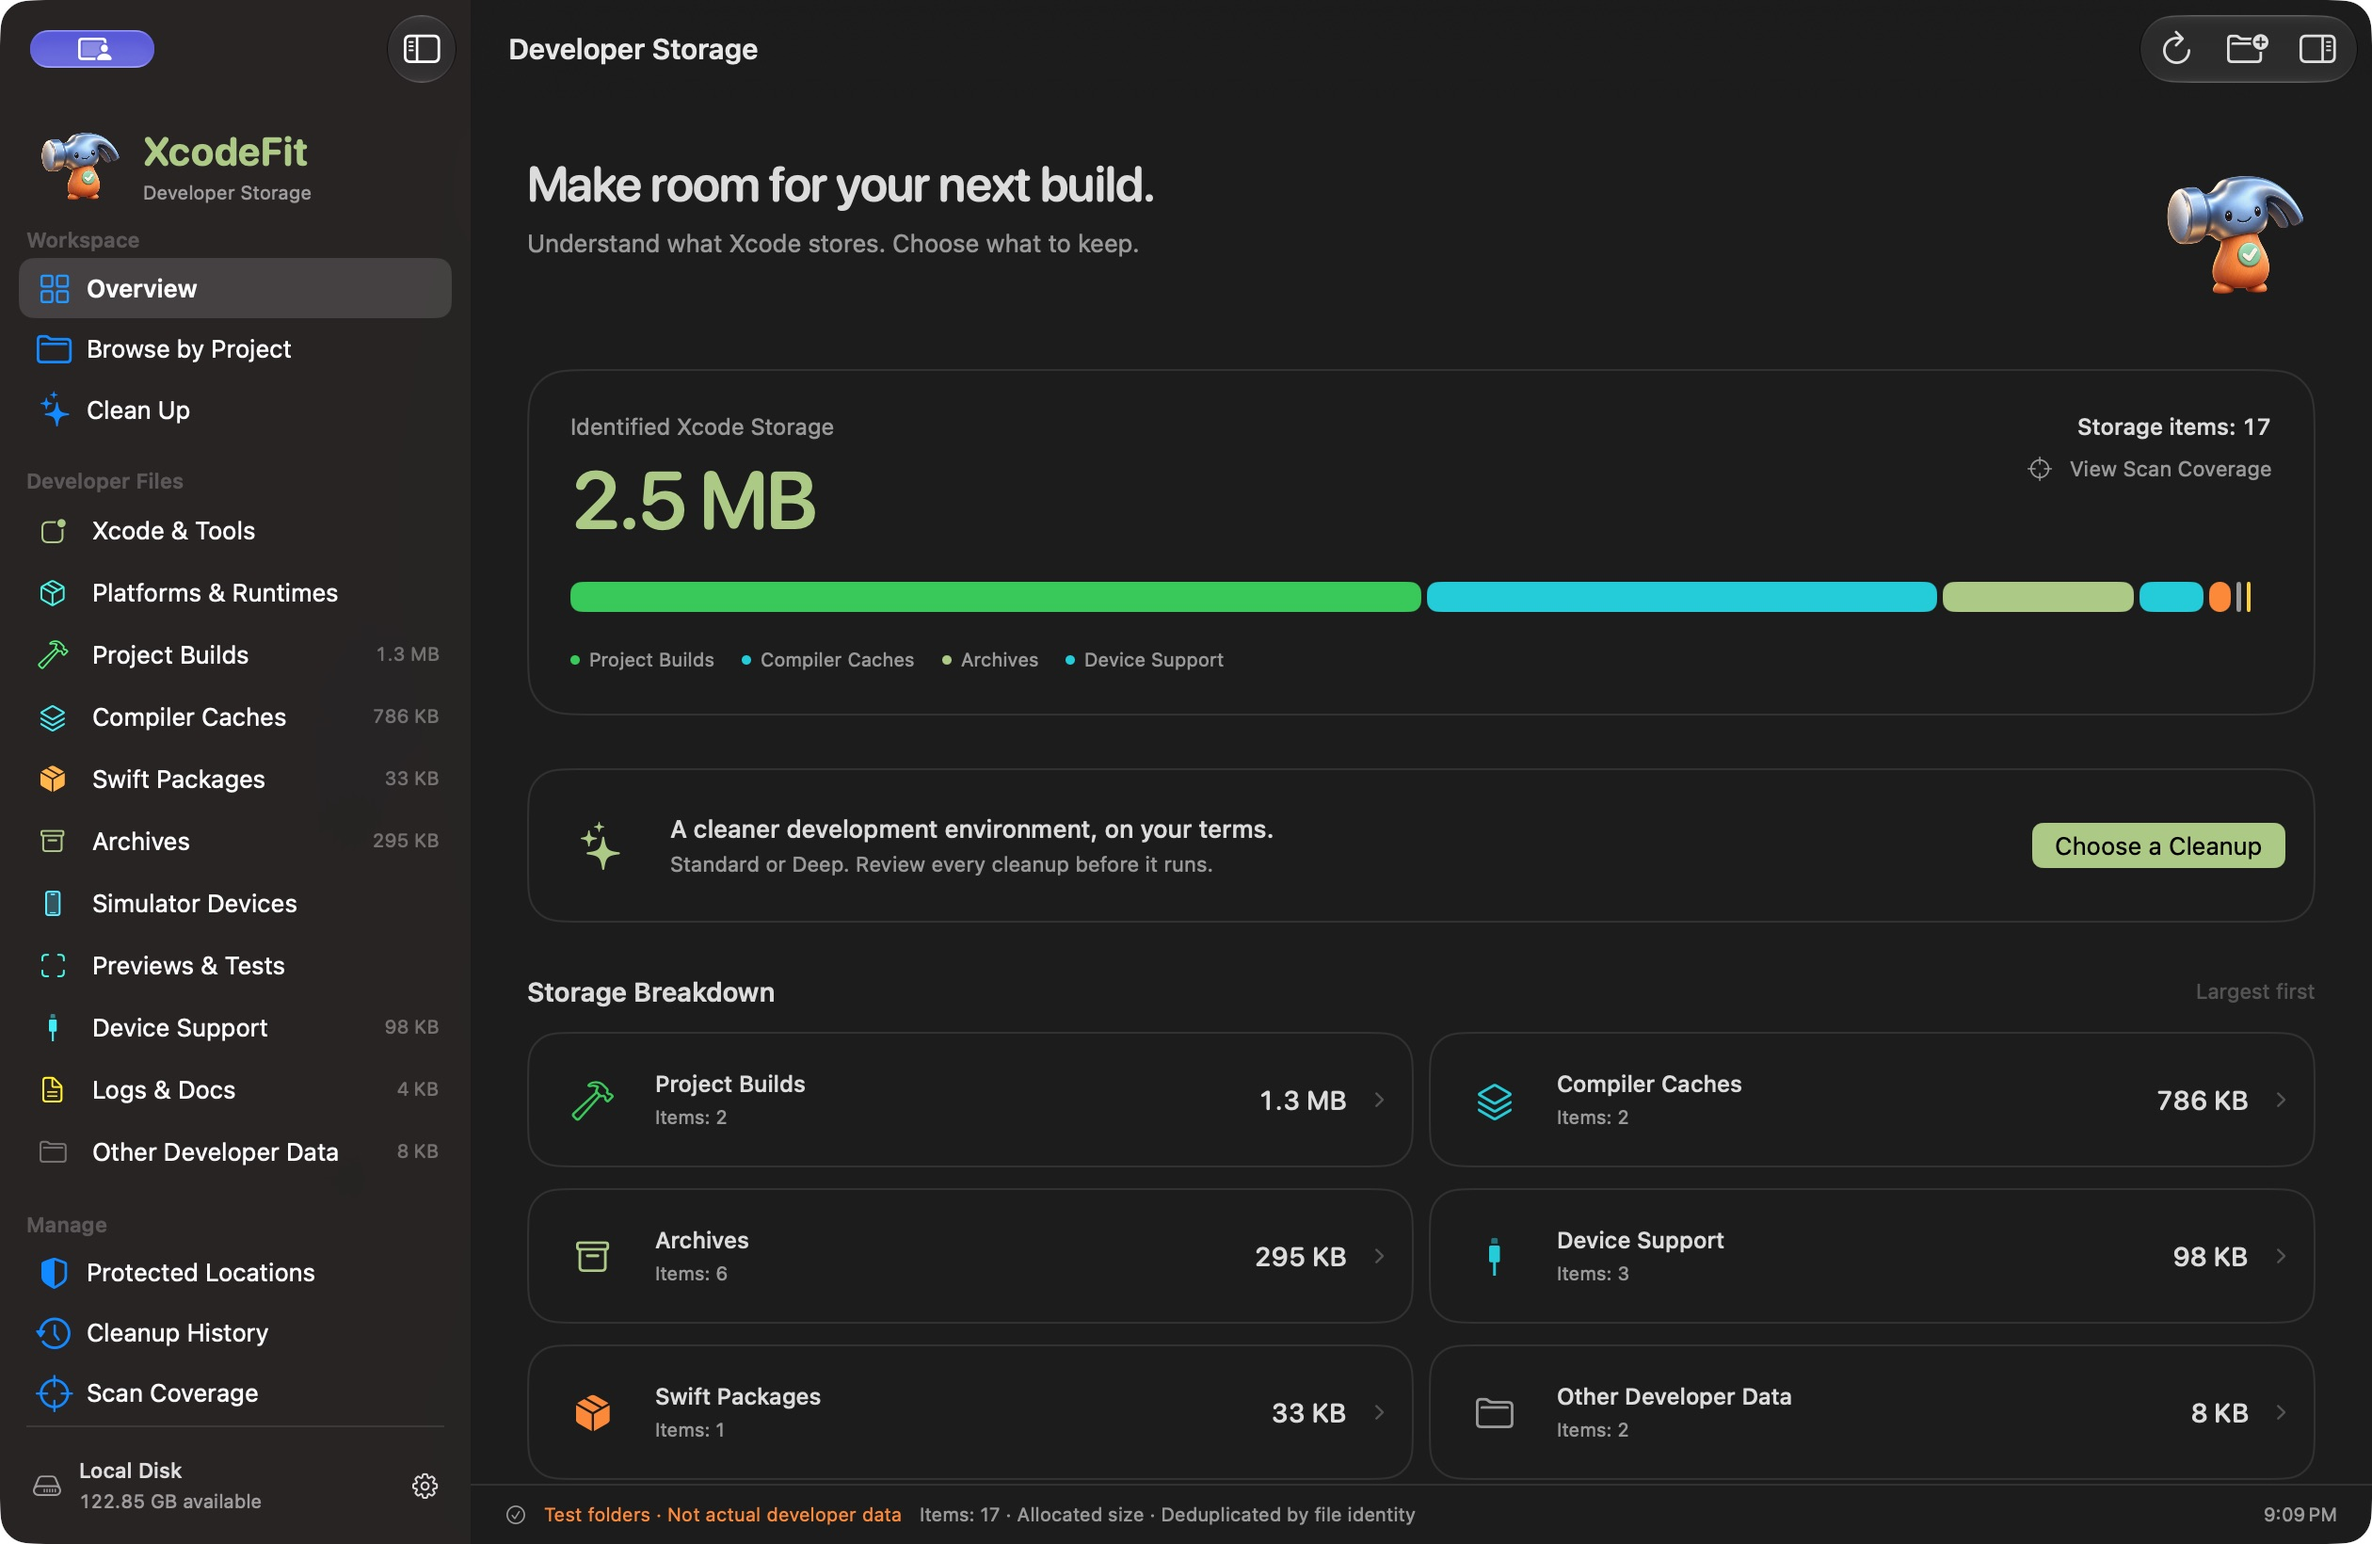
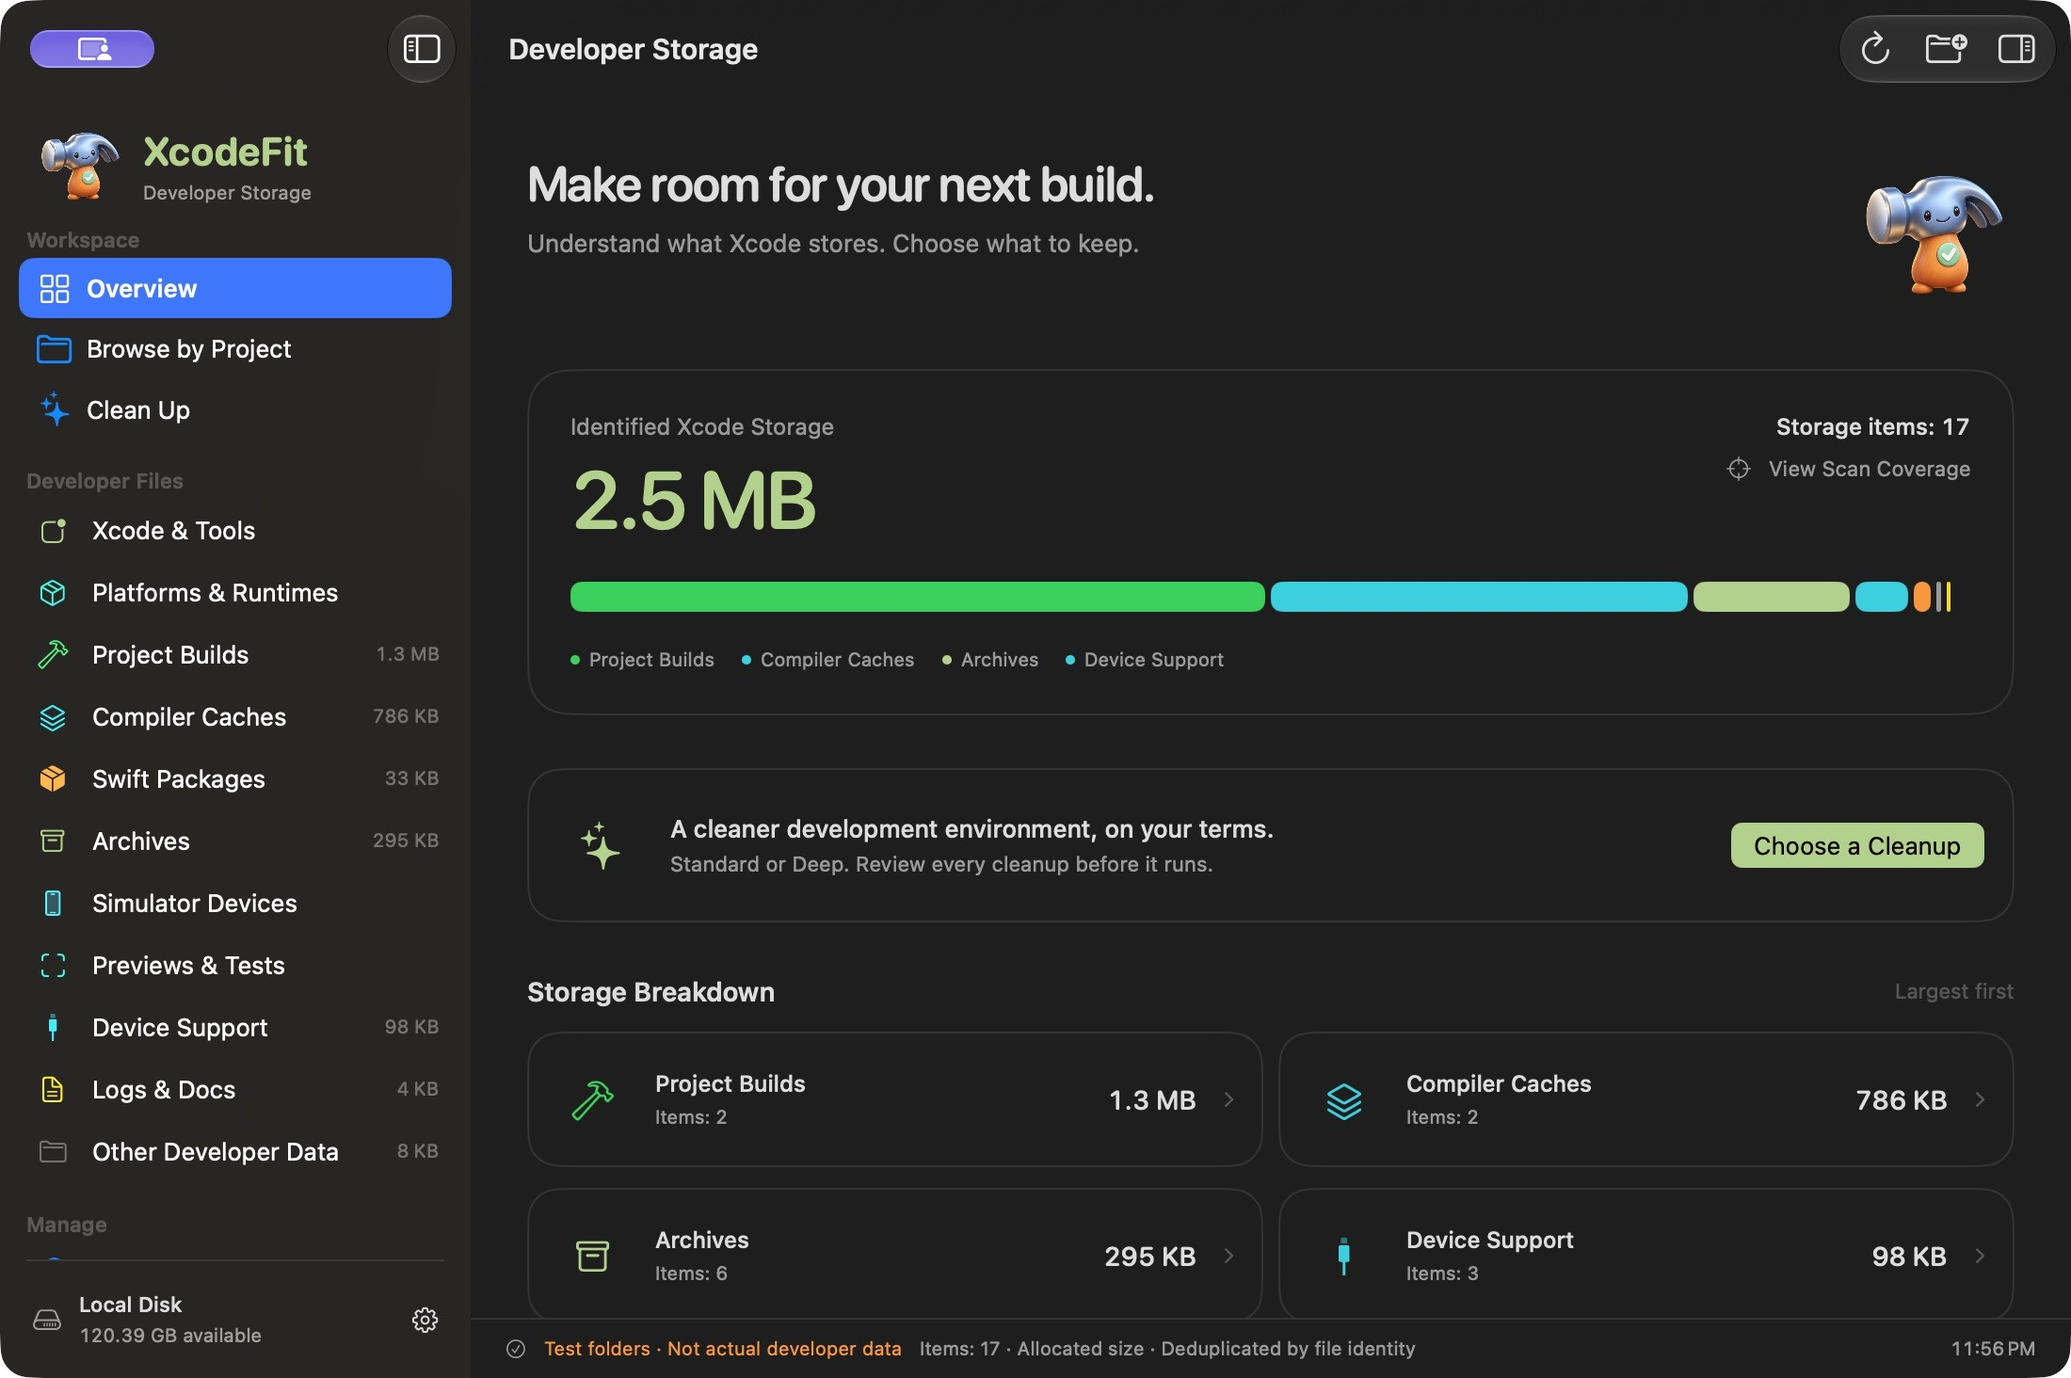
Refresh compact app screenshots and show scan status in docs

diff --git a/web/index.html b/web/index.html
@@ -9,7 +9,7 @@
   <meta name="description" content="Get your Xcode storage in shape. Find bulky builds, caches, simulators and archives, understand their purpose, and clean up with care. Free and open source for Mac.">
   <link rel="canonical" href="https://xnu.app/xcodefit/">
   <meta property="og:title" content="XcodeFit — A little fitter. A lighter Xcode."><meta property="og:description" content="A lighter, fitter home for Xcode. See what's taking space, understand what matters, and choose what to keep."><meta property="og:type" content="website"><meta property="og:url" content="https://xnu.app/xcodefit/"><meta property="og:image" content="https://xnu.app/xcodefit/assets/app-icon.png">
-  <link rel="icon" type="image/png" href="assets/app-icon.png"><link rel="stylesheet" href="styles.css?v=ee7f878723f6"><script src="app.js?v=5af89e132261" defer></script>
+  <link rel="icon" type="image/png" href="assets/app-icon.png"><link rel="stylesheet" href="styles.css?v=5912b9cc0882"><script src="app.js?v=a8f1d42bcc56" defer></script>
 </head>
 <body>
 <a class="skip-link" href="#main">Skip to content</a>
@@ -42,14 +42,23 @@
   </div>
   <figure class="app-preview">
     <div class="app-preview-toolbar"><span class="app-preview-label">XcodeFit / Overview</span><div class="appearance-picker" role="group" aria-label="Screenshot appearance"><button type="button" data-app-theme="auto" aria-pressed="true">Auto</button><button type="button" data-app-theme="light" aria-pressed="false">Light</button><button type="button" data-app-theme="dark" aria-pressed="false">Dark</button></div></div>
-    <a class="app-screenshot-link" href="assets/screenshots/overview-light.jpg" id="app-screenshot-link" target="_blank" rel="noopener" aria-label="Open full-size XcodeFit overview screenshot">
+    <a class="app-screenshot-link" href="assets/screenshots/overview-light.jpg" id="app-screenshot-link" data-screenshot="overview" target="_blank" rel="noopener" aria-label="Open full-size XcodeFit overview screenshot">
       <picture id="app-overview-picture">
         <source id="app-overview-dark" media="(prefers-color-scheme: dark)" srcset="assets/screenshots/overview-dark.jpg">
-        <img src="assets/screenshots/overview-light.jpg" alt="XcodeFit’s native overview with storage categories, folder sizes, scan coverage, and cleanup access. Captured using isolated test folders." width="2520" height="1640" loading="lazy" decoding="async">
+        <img src="assets/screenshots/overview-light.jpg" alt="XcodeFit’s native overview with storage categories, folder sizes, scan coverage, and cleanup access. Captured using isolated test folders." width="2200" height="1464" loading="lazy" decoding="async">
       </picture>
       <span class="app-screenshot-hint" aria-hidden="true">View full size ↗</span>
     </a>
     <figcaption><span>Real app. Isolated test folders. Sample sizes are not cleanup results.</span><span id="preview-appearance" role="status">Follows your system appearance</span></figcaption>
+  </figure>
+  <figure class="app-preview scan-preview">
+    <div class="app-preview-toolbar"><span class="app-preview-label">XcodeFit / Scanning</span><span class="app-preview-label">Current item · Items found · Stop Scan</span></div>
+    <a class="app-screenshot-link" data-screenshot="scanning" href="assets/screenshots/scanning-light.jpg" target="_blank" rel="noopener" aria-label="Open full-size XcodeFit scanning screenshot">
+      <picture><source media="(prefers-color-scheme: dark)" srcset="assets/screenshots/scanning-dark.jpg">
+        <img src="assets/screenshots/scanning-light.jpg" alt="XcodeFit scanning isolated test folders, with a prominent scan banner, discovered item count, and Stop Scan button." width="2200" height="1464" loading="lazy" decoding="async">
+      </picture><span class="app-screenshot-hint" aria-hidden="true">View full size ↗</span>
+    </a>
+    <figcaption><span>Scan status stays visible on every page. Stop at any time; partial results are labeled.</span><span>Test folders · Debug scan slowed for capture · Not a percentage or speed measurement</span></figcaption>
   </figure>
   <div class="app-highlights"><div><span aria-hidden="true">↳</span><h3>Find the bulky parts.</h3><p>Categories, projects, paths, and ownership in one native window.</p></div><div><span aria-hidden="true">✓</span><h3>Keep what matters.</h3><p>Protect locations and make informed choices about release archives.</p></div><div><span aria-hidden="true">✧</span><h3>Clean on your terms.</h3><p>Standard or Deep. Every cleanup starts with a review.</p></div></div>
 </section>

diff --git a/web/app.js b/web/app.js
@@ -36,17 +36,17 @@ document.getElementById('copy-command').addEventListener('click',async()=>{
 
 // Picture media queries switch instantly with the OS; buttons only preview the screenshot.
 const appThemeButtons = [...document.querySelectorAll('[data-app-theme]')];
-const appDarkSource = document.getElementById('app-overview-dark');
-const appImageLink = document.getElementById('app-screenshot-link');
+const appDarkSources = [...document.querySelectorAll('.app-preview picture source')];
+const appImageLinks = [...document.querySelectorAll('[data-screenshot]')];
 const systemAppearance = window.matchMedia('(prefers-color-scheme: dark)');
 let appPreviewMode = 'auto';
 function updateAppPreviewLink() {
  const dark = appPreviewMode === 'dark' || (appPreviewMode === 'auto' && systemAppearance.matches);
- appImageLink.href = `assets/screenshots/overview-${dark ? 'dark' : 'light'}.jpg`;
+ appImageLinks.forEach(link => { link.href = `assets/screenshots/${link.dataset.screenshot}-${dark ? 'dark' : 'light'}.jpg`; });
 }
 appThemeButtons.forEach(button => button.addEventListener('click', () => {
  appPreviewMode = button.dataset.appTheme;
- appDarkSource.media = appPreviewMode === 'auto' ? '(prefers-color-scheme: dark)' : appPreviewMode === 'dark' ? 'all' : 'not all';
+ appDarkSources.forEach(source => { source.media = appPreviewMode === 'auto' ? '(prefers-color-scheme: dark)' : appPreviewMode === 'dark' ? 'all' : 'not all'; });
  appThemeButtons.forEach(item => item.setAttribute('aria-pressed', String(item === button)));
  document.getElementById('preview-appearance').textContent = appPreviewMode === 'auto' ? 'Follows your system appearance' : appPreviewMode === 'dark' ? 'Previewing dark appearance' : 'Previewing light appearance';
  updateAppPreviewLink();

diff --git a/web/styles.css b/web/styles.css
@@ -38,3 +38,5 @@ h1,h2{font-weight:800;letter-spacing:-.055em}.hero h1{line-height:1.15}.hero h1 
 .architecture-note{max-width:470px;margin:20px auto 0!important;font-size:10px!important;line-height:1.7;color:var(--muted)}
 
 .requirements a{text-decoration:underline;text-underline-offset:3px}.requirements a:hover{color:var(--accent)}
+
+.scan-preview{margin-top:28px}

diff --git a/web/assets/screenshots/README.md b/web/assets/screenshots/README.md
@@ -1,10 +1,11 @@
 # Native app screenshots
 
-Real XcodeFit captures, using Debug `--ui-fixture` and isolated disposable folders, taken on 2026-10-20. The interface uses native system surfaces and bamboo-green accents. The operating system's screen-sharing indicator may appear in the title bar; it is not an XcodeFit control.
+Real XcodeFit 1.0.7 Debug captures, using `--ui-fixture` and isolated disposable folders, taken on 2026-10-20. The interface uses native system surfaces and bamboo-green accents. The operating system's screen-sharing indicator may appear in the title bar; it is not an XcodeFit control.
 
-- `overview-light.jpg` / `overview-dark.jpg`: overview, originally saved as `output/screenshots/xcodefit-system-light.jpg` / `xcodefit-system-dark.jpg`.
-- `cleanup-light.jpg` / `cleanup-dark.jpg`: Standard Clean screen, with no items selected and no cleanup executed.
+- `overview-light.jpg` / `overview-dark.jpg`: refreshed compact 2200×1464 captures, taken in the same window with only appearance changed.
+- `scanning-light.jpg` / `scanning-dark.jpg`: matching 2200×1464 captures of the visible scan banner, current item, discovered count, and Stop Scan control. Debug `--ui-slow-scan` slows fixture events for capture only; these images make no percentage or speed claim.
+- `cleanup-light.jpg` / `cleanup-dark.jpg`: existing 2520×1640 Standard Clean captures, with no items selected and no cleanup executed. The controls remain current.
 
-All four are unaltered 2520×1640 captures. Sample sizes and disk availability shown in screenshots are not claims about cleaning performance. Keep the visible test-folders label when refreshing captures.
+JPEG encoding is used for delivery; no interface, numbers, or labels are redrawn. Keep the visible test-folders label when refreshing captures. Sample sizes and disk availability are not claims about cleaning performance.
 
-The README and website reuse these files. GitHub's `<picture>` media sources and the website's native picture source follow light/dark appearance. The website also offers Auto, Light, and Dark screenshot previews; Auto is the initial state. No visitor files are scanned by the website.
+The README and website reuse the overview and scanning pairs. GitHub `<picture>` sources follow light/dark appearance. The website also offers Auto, Light, and Dark previews controlling both screenshots; Auto is the initial state. No visitor files are scanned by the website.

diff --git a/README.md b/README.md
@@ -58,6 +58,18 @@ Already using XcodeSize? Follow the [migration guide](docs/UPGRADING.md) to carr
 - **Check release symbols.** See product and dSYM sizes, and check binary/symbol UUID matches without assuming that a backup exists.
 - **Feel at home on macOS.** Native system surfaces follow light/dark appearance, with bamboo-green accents. English, 简体中文, 繁體中文, 日本語, and 한국어 are included.
 
+## Follow the scan
+
+A visible banner shows the current item and discovered item count on every page. Stop the scan at any time; partial results are labeled. The scan does not display a percentage because its total scope is not known in advance.
+
+<picture>
+  <source media="(prefers-color-scheme: dark)" srcset="web/assets/screenshots/scanning-dark.jpg">
+  <source media="(prefers-color-scheme: light)" srcset="web/assets/screenshots/scanning-light.jpg">
+  <img src="web/assets/screenshots/scanning-light.jpg" alt="XcodeFit scanning test folders with the scan status banner, item count, and Stop Scan button" width="1100" loading="lazy">
+</picture>
+
+<sub>Real Debug capture with isolated test folders and scan events slowed for capture. Item counts are not a percentage or a speed measurement.</sub>
+
 ## Two cleanup modes
 
 | | Standard Clean · default | Deep Clean |
